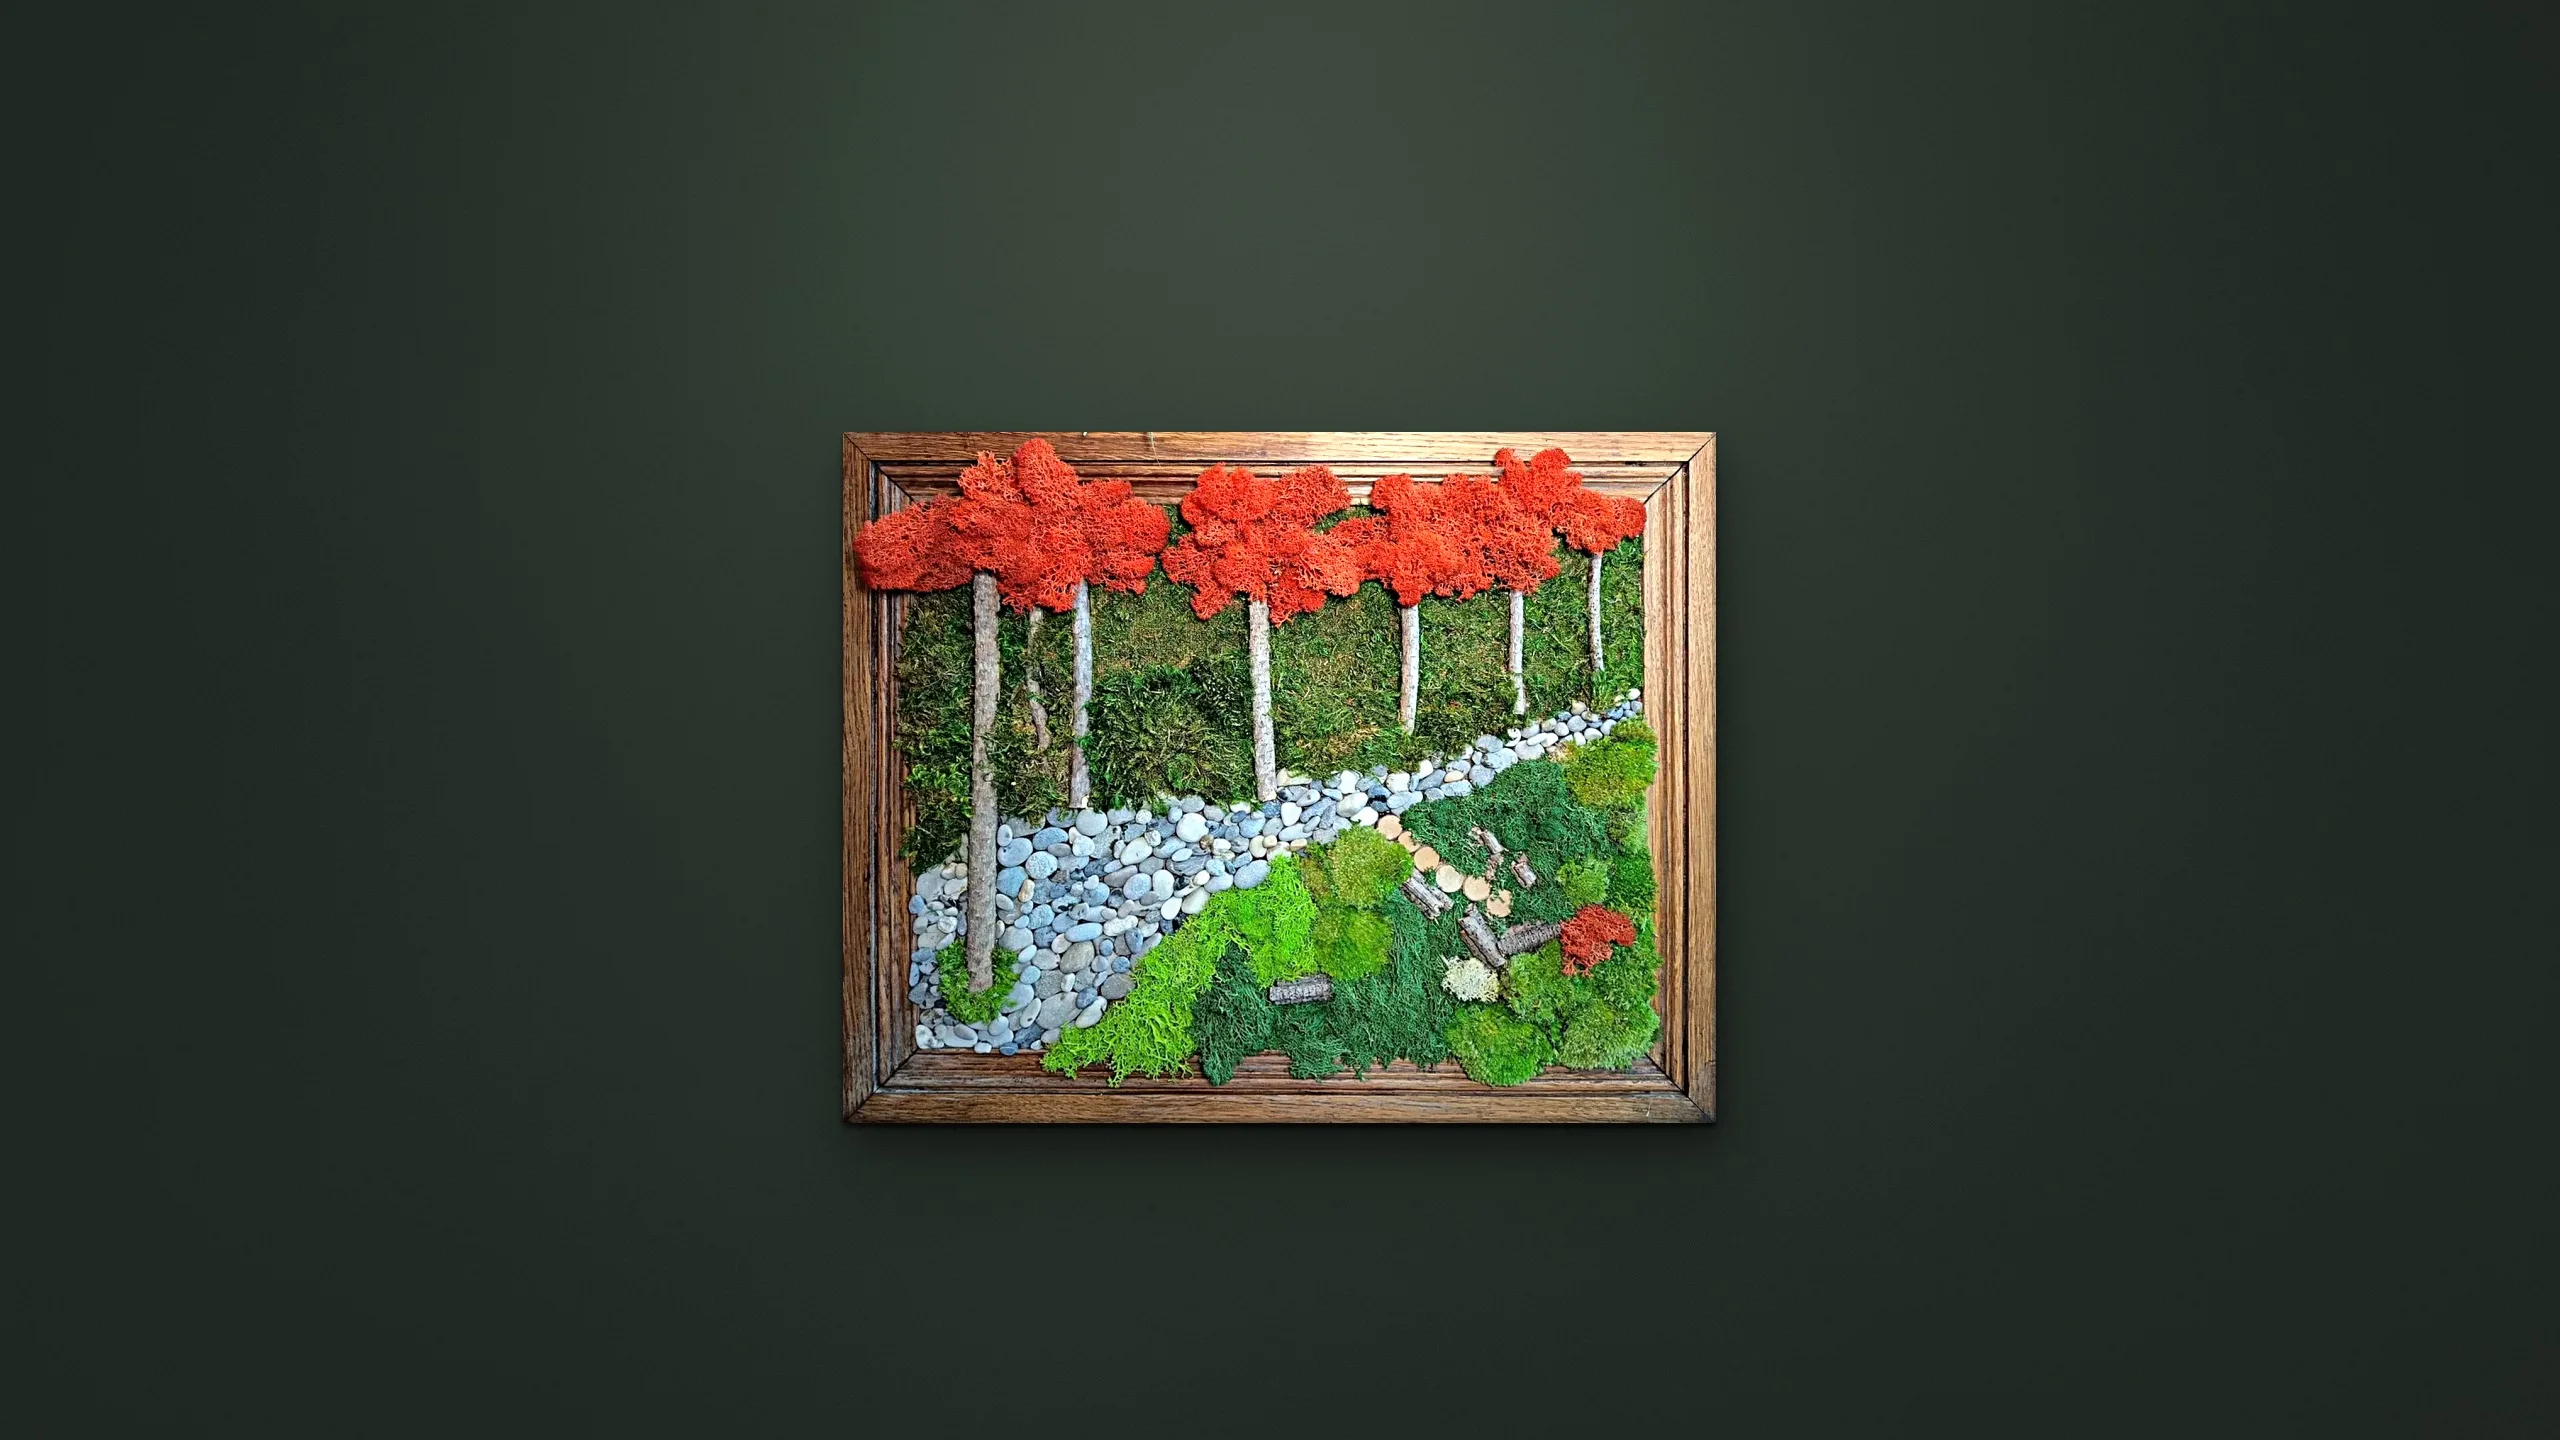
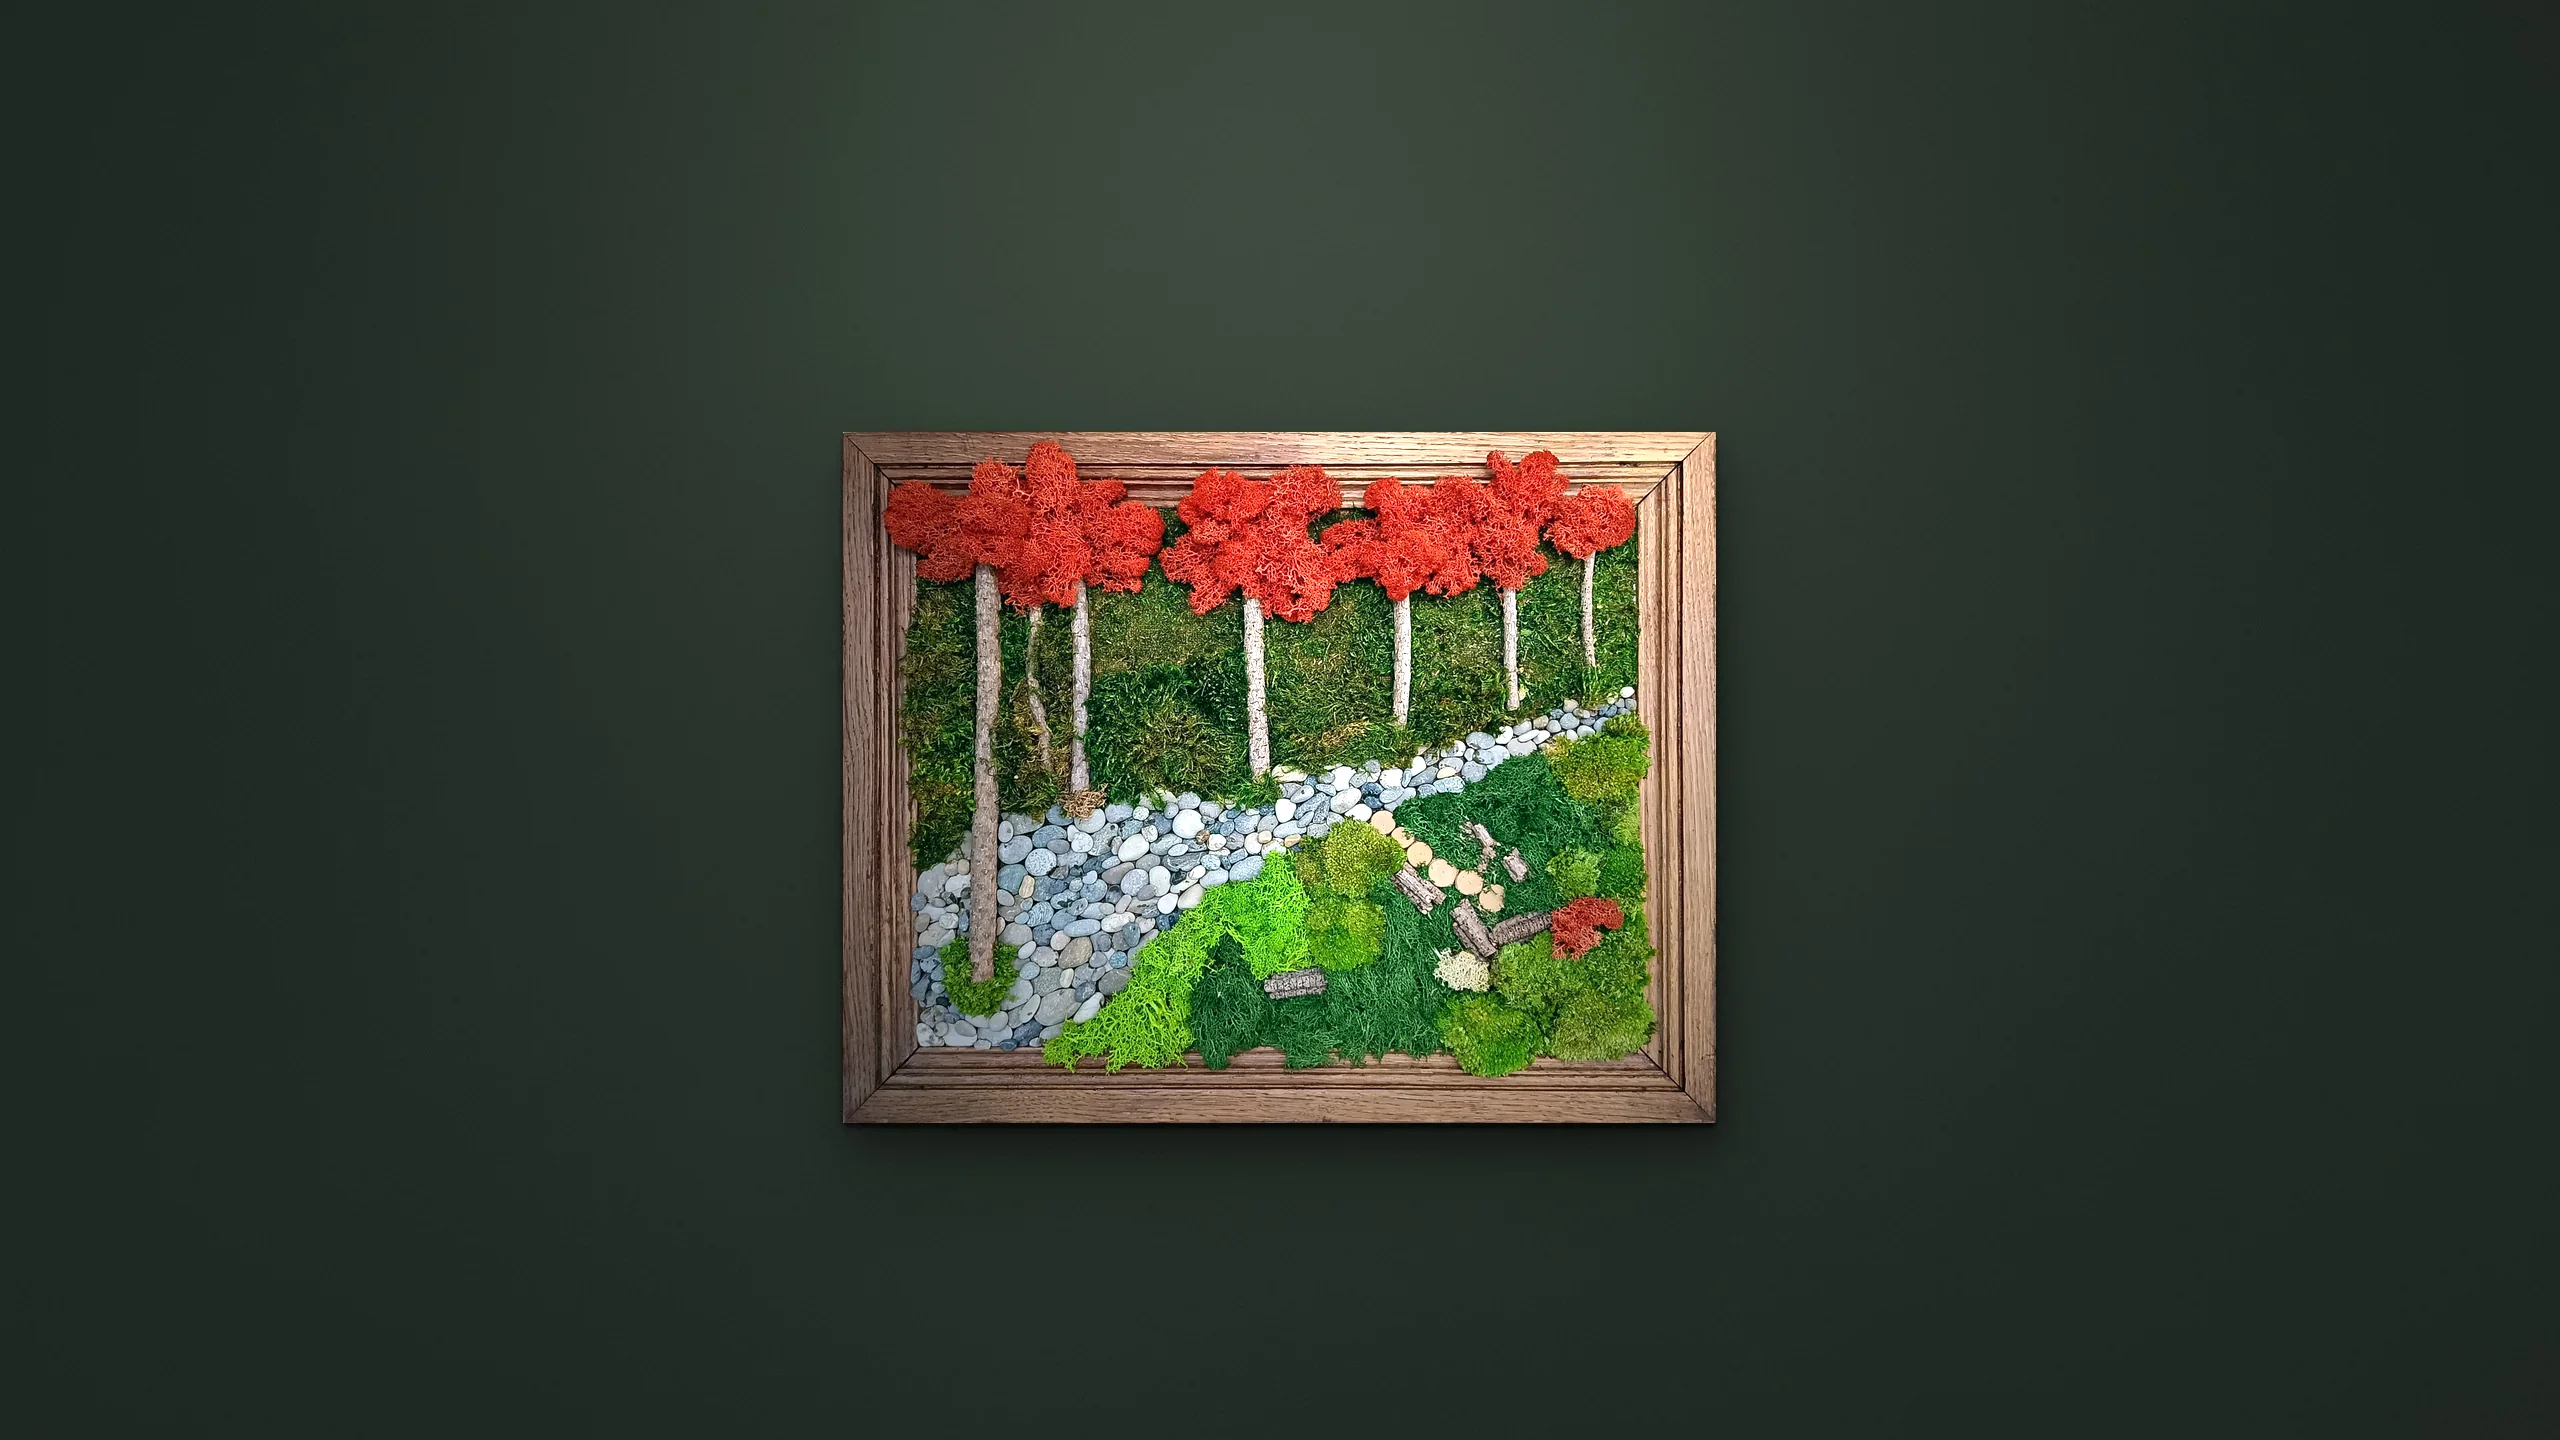
Accueil : nouvelle photo du tableau sous-bois dans l'ouverture « mur de galerie »
Nouvelle prise de vue de face (2000×1500) redressée au ras du cadre (1791×1419),
incrustée à l'emplacement exact de l'ancienne dans les montages ordinateur et mobile,
avec la couleur et le dégradé de lumière du mur. Ratio identique (1,262) : haut du cadre
et signature inchangés. Vérifié au rendu (1366, 1440, 1920, mobile).

Claude-Session: https://claude.ai/code/session_012XudYv1MjAe8fCTzdk3UUm

Changed region(s): [[0.3125, 0.2812, 0.6875, 0.7812]]

diff --git a/docs/decisions.md b/docs/decisions.md
@@ -194,4 +194,5 @@
 - Décision de Gwen : la photo d'ouverture par défaut devient le tableau sous-bois aux arbres rouges, redressé, détouré au ras du cadre et posé sur un mur vert sombre éclairé en galerie (variante « B3 » choisie parmi plâtre blanc, lin et vert sauge). C'est un **photomontage** : le tableau est réel, le mur, l'ombre et la lumière sont reconstitués.
 - Mise en page : la signature quitte le centre de la photo et se place au-dessus du tableau, comme le nom de l'artiste sur le mur d'une galerie. Une image portrait dédiée au mobile garde le tableau entier à l'écran.
 - Ce mode (`mode: 'mur'` dans `src/data/site.ts`) ne s'applique qu'à la photo par défaut du site. Une photo choisie dans l'administration (Accueil › Photo d'ouverture) garde l'ouverture plein cadre habituelle : la règle « photos rectangulaires ordinaires » pour le circuit d'Adèle reste inchangée.
-- Limite connue : photo source en basse définition (1269 × 952) ; à refaire depuis l'original du téléphone ou une nouvelle prise de vue pour la version définitive. En attente de validation d'Adèle, comme toute l'identité Nocturne.
+- Limite connue : photo source en basse définition (1269 × 952) ; à refaire depuis l'original du téléphone ou une nouvelle prise de vue pour la version définitive.
+- 2026-10-03 : photo source remplacée par une nouvelle prise de vue de face envoyée par Adèle (2000 × 1500, redressée à 1791 × 1419). Même ratio de cadre (1,262), même emplacement dans les deux montages : la position de la signature est inchangée. Limite de basse définition levée. En attente de validation d'Adèle, comme toute l'identité Nocturne.
